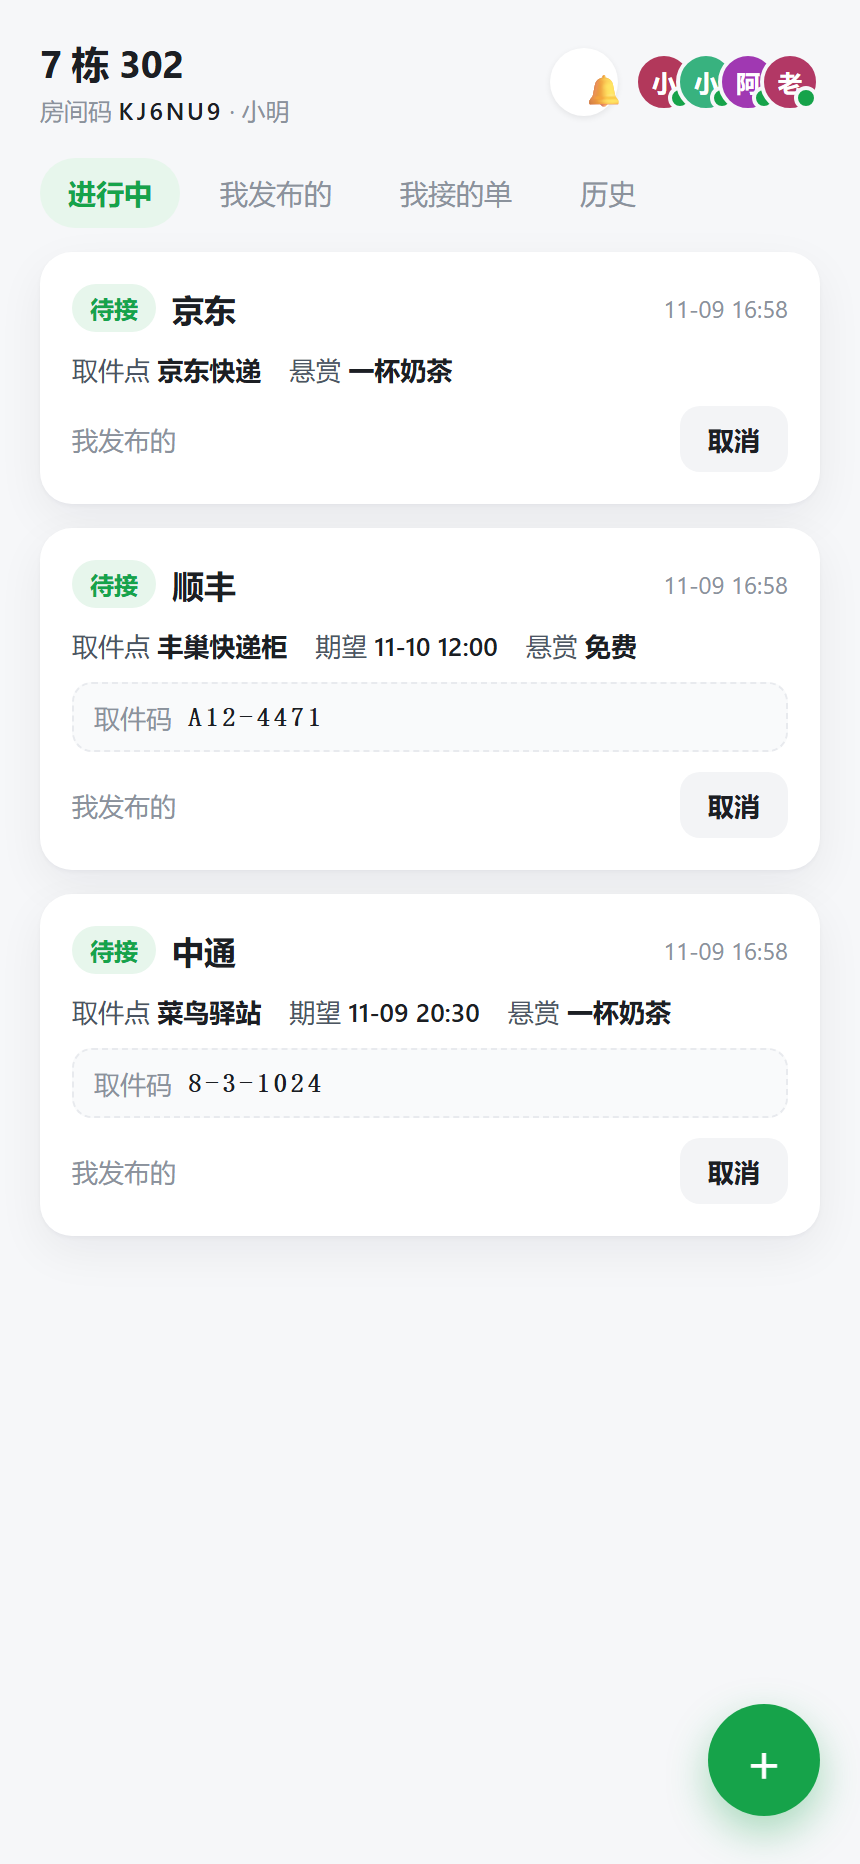
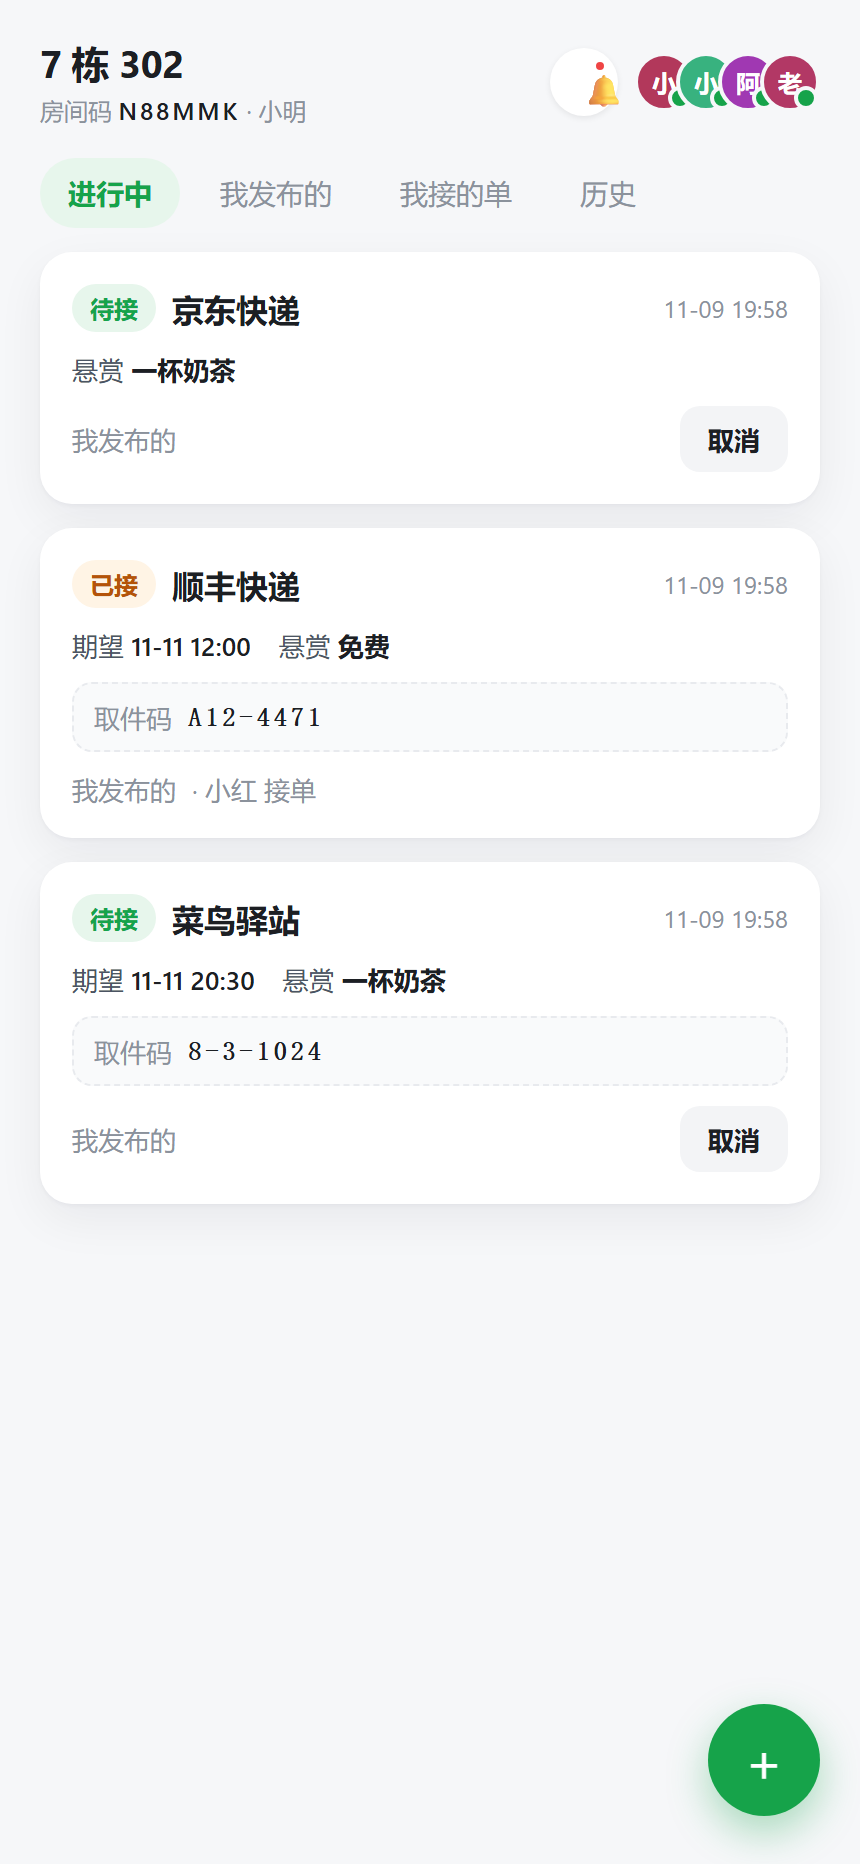
feat: 去掉快递公司字段，取件点改为 6 个常见站点
- 表单只选取件点：菜鸟驿站 / 京东快递 / 多多驿站 / 兔喜快递 / 顺丰快递 / 邮政快递
- ParcelService.create: courier 改为可选（缺省存空串），不再强制校验
- 卡片标题改用取件点（原来用快递公司），meta 行去掉重复的「取件点」
- seed/smoke 脚本同步去掉 courier；smoke 25 项仍全过
- shot.mjs 支持可选「点击某元素后再截图」，新增 docs/shots/publish.png

diff --git a/src/main/resources/static/app.js b/src/main/resources/static/app.js
@@ -155,14 +155,13 @@ function renderParcel(p) {
   top.className = 'parcel-top';
   top.innerHTML = `
     <span class="badge ${p.status}">${p.statusLabel}</span>
-    <span class="courier">${escapeHtml(p.courier)}</span>
+    <span class="courier">${escapeHtml(p.station || p.courier || '快递')}</span>
     <span class="parcel-time">${p.createdAt}</span>
   `;
 
   const meta = document.createElement('div');
   meta.className = 'parcel-meta';
   meta.innerHTML = `
-    <span>取件点 <b>${escapeHtml(p.station)}</b></span>
     ${p.deadline ? `<span>期望 <b>${p.deadline}</b></span>` : ''}
     ${p.reward ? `<span>悬赏 <b>${escapeHtml(p.reward)}</b></span>` : ''}
   `;
@@ -287,7 +286,6 @@ function closeSheet() {
 $('#parcelForm').addEventListener('submit', async (e) => {
   e.preventDefault();
   const body = {
-    courier: $('#courier').value.trim(),
     station: $('#station').value,
     pickupCode: $('#pickupCode').value.trim(),
     deadline: $('#deadline').value,          // datetime-local 直接给 yyyy-MM-ddTHH:mm

diff --git a/src/main/resources/static/index.html b/src/main/resources/static/index.html
@@ -1,4 +1,4 @@
-<!DOCTYPE html>
+<!DOCTYPE html>
 <html lang="zh-CN">
 <head>
   <meta charset="UTF-8">
@@ -75,15 +75,14 @@
       <button id="sheetClose" class="ghost">取消</button>
     </div>
     <form id="parcelForm">
-      <label>快递公司
-        <input id="courier" placeholder="中通 / 圆通 / 顺丰…" required>
-      </label>
       <label>取件点
         <select id="station">
           <option>菜鸟驿站</option>
-          <option>丰巢快递柜</option>
           <option>京东快递</option>
-          <option>其他</option>
+          <option>多多驿站</option>
+          <option>兔喜快递</option>
+          <option>顺丰快递</option>
+          <option>邮政快递</option>
         </select>
       </label>
       <label>取件码 <span class="muted">（只有你和接单人看得到）</span>

diff --git a/scripts/smoke_test.py b/scripts/smoke_test.py
@@ -1,4 +1,4 @@
-"""ParcelMate 接口冒烟测试（端到端，只用标准库）。
+"""ParcelMate 接口冒烟测试（端到端，只用标准库）。
 
 用法：先启动服务，再 `python smoke_test.py`；末行打印 ALL OK 即通过。
 
@@ -71,7 +71,7 @@ def main():
 
     # ---------- 发布与隐私 ----------
     st, p = call(xiaoming, "POST", "/api/parcels", {
-        "courier": "中通", "station": "菜鸟驿站", "pickupCode": "8-3-1024",
+        "station": "菜鸟驿站", "pickupCode": "8-3-1024",
         "deadline": "2026-11-09T20:30", "reward": "一杯奶茶",
     })
     pid = p["id"]
@@ -136,7 +136,7 @@ def main():
 
     # ---------- 取消 ----------
     st, p2 = call(xiaoming, "POST", "/api/parcels", {
-        "courier": "顺丰", "station": "丰巢快递柜", "pickupCode": "A12-4471",
+        "station": "顺丰快递", "pickupCode": "A12-4471",
     })
     pid2 = p2["id"]
     st, err = call(xiaohong, "POST", f"/api/parcels/{pid2}/cancel")
@@ -149,7 +149,7 @@ def main():
 
     # ---------- 并发：5 个人同时抢同一张单 ----------
     st, p3 = call(xiaoming, "POST", "/api/parcels", {
-        "courier": "圆通", "station": "菜鸟驿站", "pickupCode": "9-9-9999",
+        "station": "多多驿站", "pickupCode": "9-9-9999",
     })
     pid3 = p3["id"]
     racers = [join(code, f"室友{i}")[0] for i in range(1, 6)]
@@ -181,7 +181,7 @@ def main():
     assert final["version"] == 1
 
     # ---------- 未加入者 ----------
-    st, err = call(guest, "POST", "/api/parcels", {"courier": "中通", "station": "菜鸟驿站"})
+    st, err = call(guest, "POST", "/api/parcels", {"station": "菜鸟驿站"})
     print("25 未加入者发快递 ->", st, err)
     assert st == 400
 

diff --git a/scripts/seed_demo.py b/scripts/seed_demo.py
@@ -1,4 +1,4 @@
-"""造一份演示数据：一个宿舍 + 4 个成员 + 3 张快递单（其中 1 张已被接走）。
+"""造一份演示数据：一个宿舍 + 4 个成员 + 3 张快递单（其中 1 张已被接走）。
 
 用法：
     python seed_demo.py                       # 默认打本机 8080
@@ -73,11 +73,11 @@ def main():
 
     # 3. 小明发三张单
     payloads = [
-        {"courier": "中通", "station": "菜鸟驿站", "pickupCode": "8-3-1024",
+        {"station": "菜鸟驿站", "pickupCode": "8-3-1024",
          "deadline": "2026-11-11T20:30", "reward": "一杯奶茶"},
-        {"courier": "顺丰", "station": "丰巢快递柜", "pickupCode": "A12-4471",
+        {"station": "顺丰快递", "pickupCode": "A12-4471",
          "deadline": "2026-11-11T12:00", "reward": "免费"},
-        {"courier": "京东", "station": "京东快递", "pickupCode": None,
+        {"station": "京东快递", "pickupCode": None,
          "deadline": None, "reward": "一杯奶茶"},
     ]
     parcels = []
@@ -96,7 +96,7 @@ def main():
         "roomName": room["name"],
         "members": [{"nickname": n, "id": mid} for n, (_, mid) in students.items()],
         "parcels": [
-            {"id": p["id"], "courier": p["courier"], "status": "TAKEN" if p["id"] == parcels[1]["id"] else "OPEN"}
+            {"id": p["id"], "station": p["station"], "status": "TAKEN" if p["id"] == parcels[1]["id"] else "OPEN"}
             for p in parcels
         ],
         "next": "手机打开 %s → 输房间码 %s → 昵称随便（如「学长」）→ 就能看到 2 张待接 + 1 张已接" % (BASE, code),

diff --git a/src/main/java/com/pang/parcelmate/service/ParcelService.java b/src/main/java/com/pang/parcelmate/service/ParcelService.java
@@ -44,7 +44,9 @@ public class ParcelService {
 
     /** 发布一张快递单。 */
     public ParcelView create(Member me, CreateParcelCommand cmd) {
-        String courier = require(cmd.courier(), "快递公司不能为空");
+        // 快递公司不再是必填项：用户在表单里只选"取件点"（菜鸟/京东/多多/兔喜/顺丰/邮政），
+        // 老客户端如果还传 courier 就照存；没传就存空串（这一列是 NOT NULL，空串安全）。
+        String courier = cmd.courier() == null ? "" : cmd.courier().trim();
         String station = require(cmd.station(), "取件点不能为空");
         if (courier.length() > 20 || station.length() > 20) {
             throw new BizException("快递公司 / 取件点太长了");

diff --git a/README.md b/README.md
@@ -1,4 +1,4 @@
-# 求你了 · 宿舍快递代取登记（ParcelMate）
+# 求你了 · 宿舍快递代取登记（ParcelMate）
 
 > 宿舍群里那句「谁帮我取一下快递」，从满屏聊天记录变成一张能追踪状态的小卡片。
 
@@ -17,15 +17,15 @@ ParcelMate 把这个流程做成**一张卡片带状态**：
 ```
 
 - 一个宿舍一个**房间码**，室友输入码 + 昵称就能进，不需要注册账号
-- 发布时填：快递公司 / 取件点 / **取件码** / 期望时间 / 悬赏（"一杯奶茶"）
+- 发布时填：**取件点**（菜鸟 / 京东 / 多多 / 兔喜 / 顺丰 / 邮政）/ **取件码** / 期望时间 / 悬赏（"一杯奶茶"）
 - 取件码只有**发布者**和**接单人**看得到，其他人看到的是隐藏状态
 - 谁接的单、哪一步超时了，状态都标得清清楚楚
 
 ## 截图
 
-| 加入宿舍 | 快递看板（手机） |
-| --- | --- |
-| ![欢迎页](docs/shots/welcome.png) | ![看板](docs/shots/app-online.png) |
+| 加入宿舍 | 快递看板（手机） | 发布快递 |
+| --- | --- | --- |
+| ![欢迎页](docs/shots/welcome.png) | ![看板](docs/shots/app-online.png) | ![发布](docs/shots/publish.png) |
 
 > 上面第二张是线上实例的真实截图：阿里云 Ubuntu 24.04 + systemd 跑同一个 jar，
 > 手机浏览器直接打开，不是本地 mock。
@@ -74,7 +74,7 @@ UPDATE parcel
 ```
 room         (id, code, name, created_at)
 member       (id, room_id, nickname, join_at, last_active)
-parcel       (id, room_id, owner_id, courier, station, pickup_code,
+parcel       (id, room_id, owner_id, station, pickup_code,
               reward, deadline, status, version, taker_id, created_at)
 parcel_event (id, parcel_id, action, by_member, at)      -- 操作流水，只追加
 notice       (id, member_id, parcel_id, type, is_read, at) -- 站内提醒
